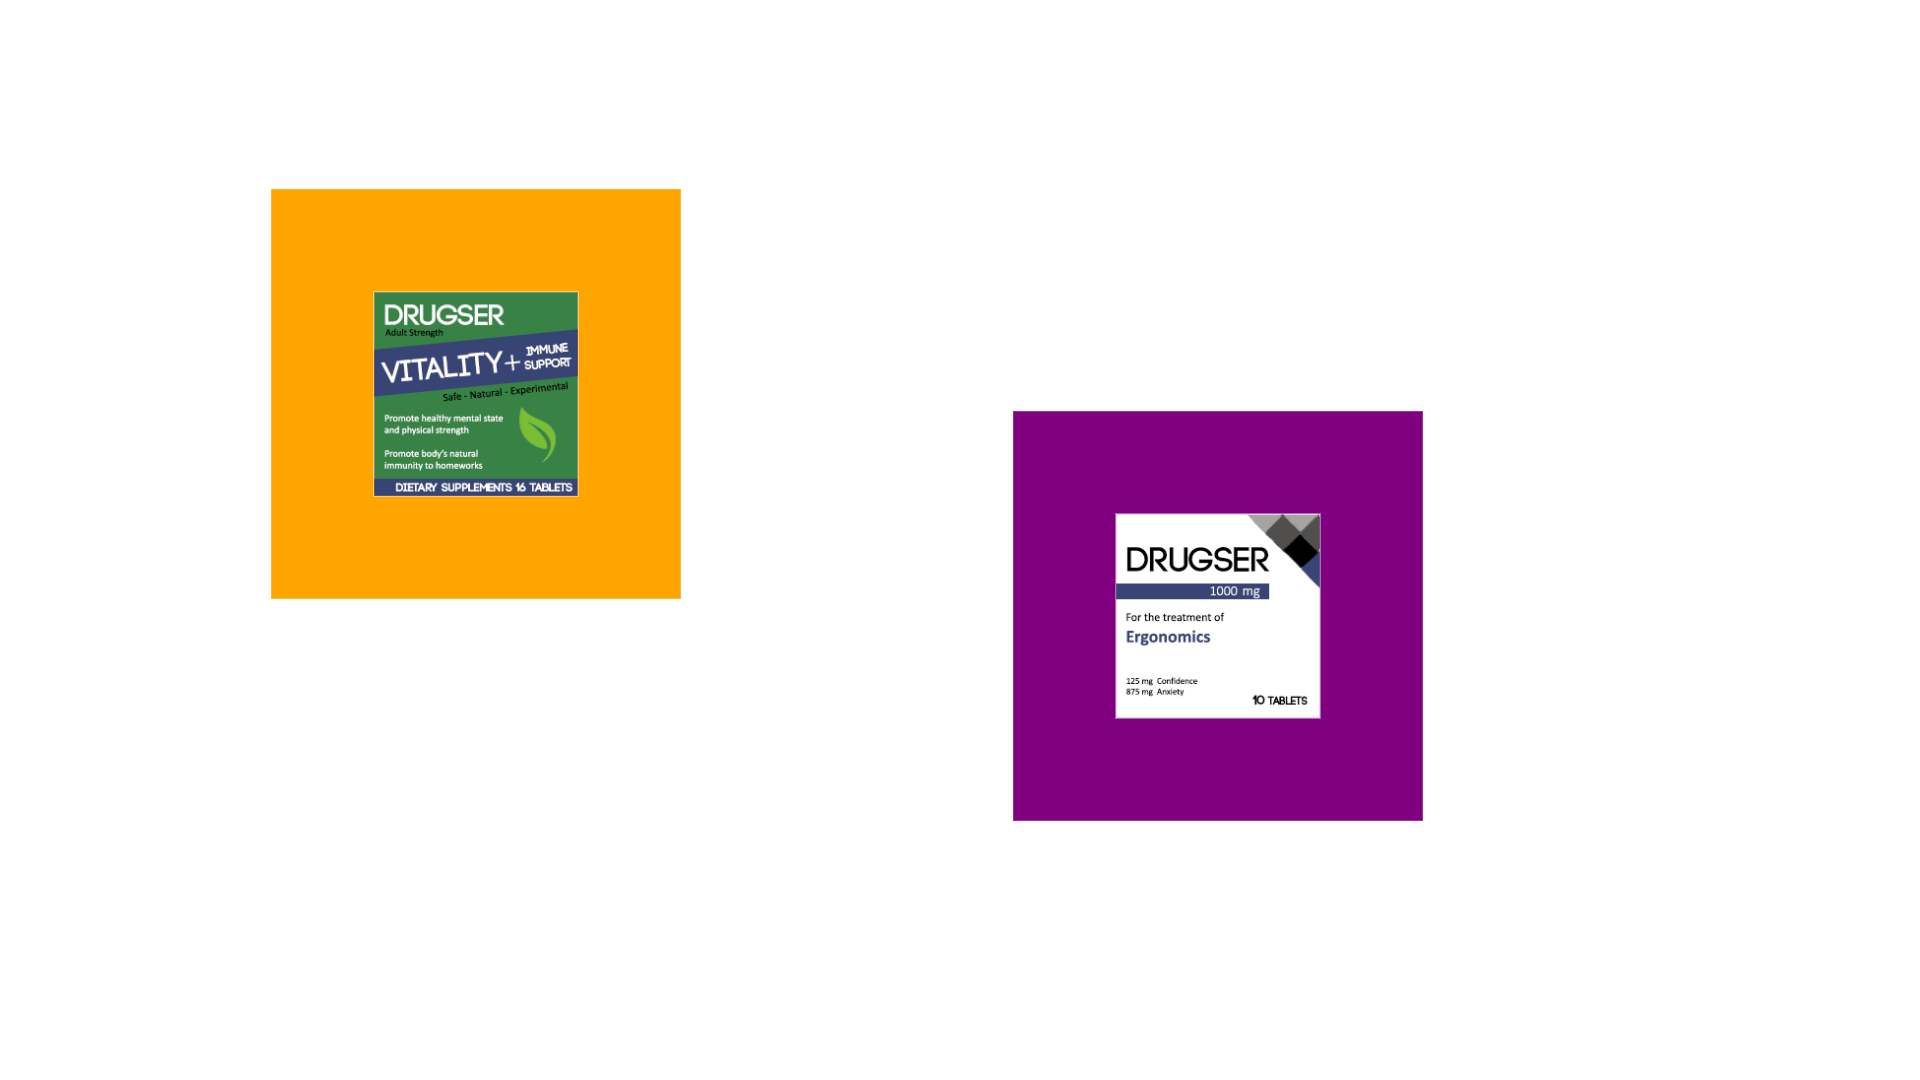
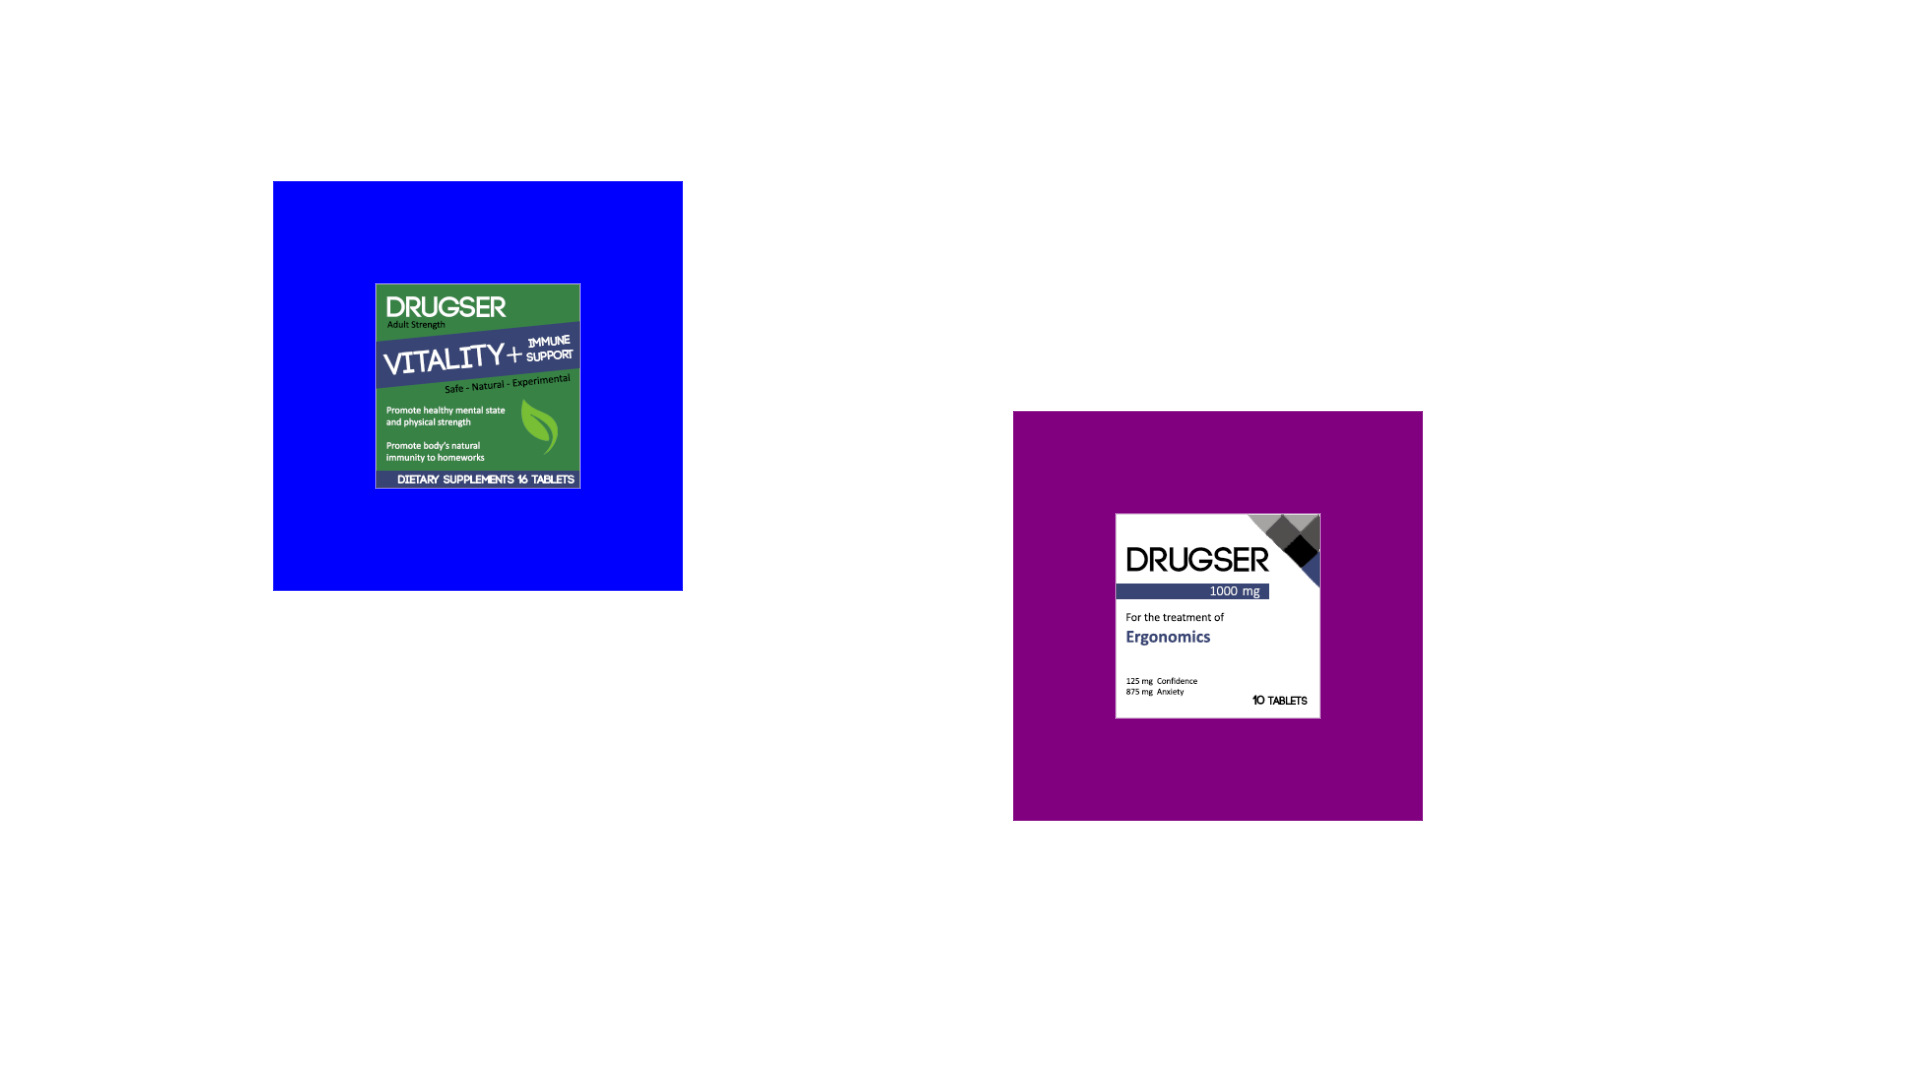
fixed orange marker not detactable

Changed region(s): [[0.125, 0.1528, 0.375, 0.5806]]

diff --git a/content/index.js b/content/index.js
@@ -123,7 +123,8 @@ const settings = {
 const introduction = {
     template: `
     <div>
-    <h1>Drug Intake Assisting App for Elderly People - Protoype</h1>
+    <h1>Drugser</h2>
+    <h2>Drug Intake Assisting App for Elderly People - Protoype</h2>
     <hr>
     <h2>How-To</h2>
     <ol>

diff --git a/content/scan.php b/content/scan.php
@@ -1,0 +1,116 @@
+<!doctype HTML>
+<html>
+	<head>
+		<meta charset="UTF-8">
+		
+		<!-- include AR.js & dependencies -->
+		<script src="/content/extern/aframe0.9.2.min.js"></script>
+		<script src="/content/extern/aframe-ar2.0.5.js"></script>
+		<script type="text/javascript">
+			function update_gui(drugs) {
+				// update all ui elements for drugs
+				for (drug in drugs) {
+					// get element
+					var elDrugDisplay = document.querySelector(`#DrugDisplay${drug.name}`);
+
+					// update color and text
+					elDrugDisplay.setAttribute('material', 'color', drug.sinpuret.color);
+					elDrugDisplay.setAttribute('value', drug.sinpuret.text);		
+				}
+			}
+
+			
+			// on click sent to parent
+			this.addEventListener('fromParent', function (evt) {
+				alert("JAMAN");
+				
+					// receive from parent
+					update_gui(drugs)
+			});
+					
+			// Component to change to a sequential color on click.
+			AFRAME.registerComponent('cursor-listener', {
+				init: function () {
+					// vars init
+					var el_drugserErgo_display = document.querySelector('#drugserErgo_display');
+					
+					
+					// on click sent to parent
+					this.el.addEventListener('click', function (evt) {	
+						var data = { foo: 'bar' }
+						var event = new CustomEvent('myCustomEvent', { detail: data })
+						window.parent.document.dispatchEvent(event)
+					});
+				
+					// events: hover darkening
+					this.el.addEventListener('mouseenter', function (evt) {
+						this.setAttribute('material', 'color', 'blue');
+					});	
+					this.el.addEventListener('mouseleave', function (evt) {
+						this.setAttribute('material', 'color', color_current); // reset color
+					});
+				}
+			});
+		</script>
+	</head>
+	<body style='margin: 0px; overflow: hidden;'>
+		<!--<div style="z-index: -2; text-align: center;"><h1>Loading...</h1></div>-->
+
+		<!-- add ar.js -->
+		<a-scene
+			embedded
+			arjs='debugUIEnabled: false;'
+		>	
+			<!-- add markers/drugs -->
+			<a-marker
+				type="pattern"
+				preset="custom"
+				url="/content/marker/drugser_ergo_pattern.patt"
+			>
+				<a-entity
+					geometry="primitive: plane"
+					material="color: purple; opacity: 0.5;"
+					rotation="-90 0 0"
+					cursor-listener
+				>
+					<a-text
+						id="DrugDisplayDrugserErgo"
+						align="center"
+						baseline="center"
+						color=""
+						scale="1 1 1"
+						value="Drugser Ergonomics\n0/2"
+					>
+					
+					</a-text>
+				</a-entity>
+			</a-marker>
+			<a-marker type="pattern" preset="custom" url="/content/marker/drugser_adult_strength_pattern.patt">
+				<!--<a-box height="0.1" position='0 0.1 0' material='color: green; opacity: 0.5;'></a-box>-->
+				
+				<a-entity
+					geometry="primitive: plane"
+					material="color: blue; opacity: 0.5;"
+					rotation="-90 0 0"
+					cursor-listener
+				>
+					<a-text
+						id="DurgDisplaydrugserAdultStrength"
+						align="center"
+						baseline="center"
+						color=""
+						scale="1 1 1"
+						value="Drugser Adult Strength\n0/1"
+					>
+					</a-text>
+				</a-entity>
+			</a-marker>
+
+			<!-- add simple camera -->
+			<a-entity camera>
+				<!-- add cursor for interaction (no hand crontrols) -->
+				<a-cursor></a-cursor>
+			</a-entity>
+		</a-scene>
+	</body>
+</html>
